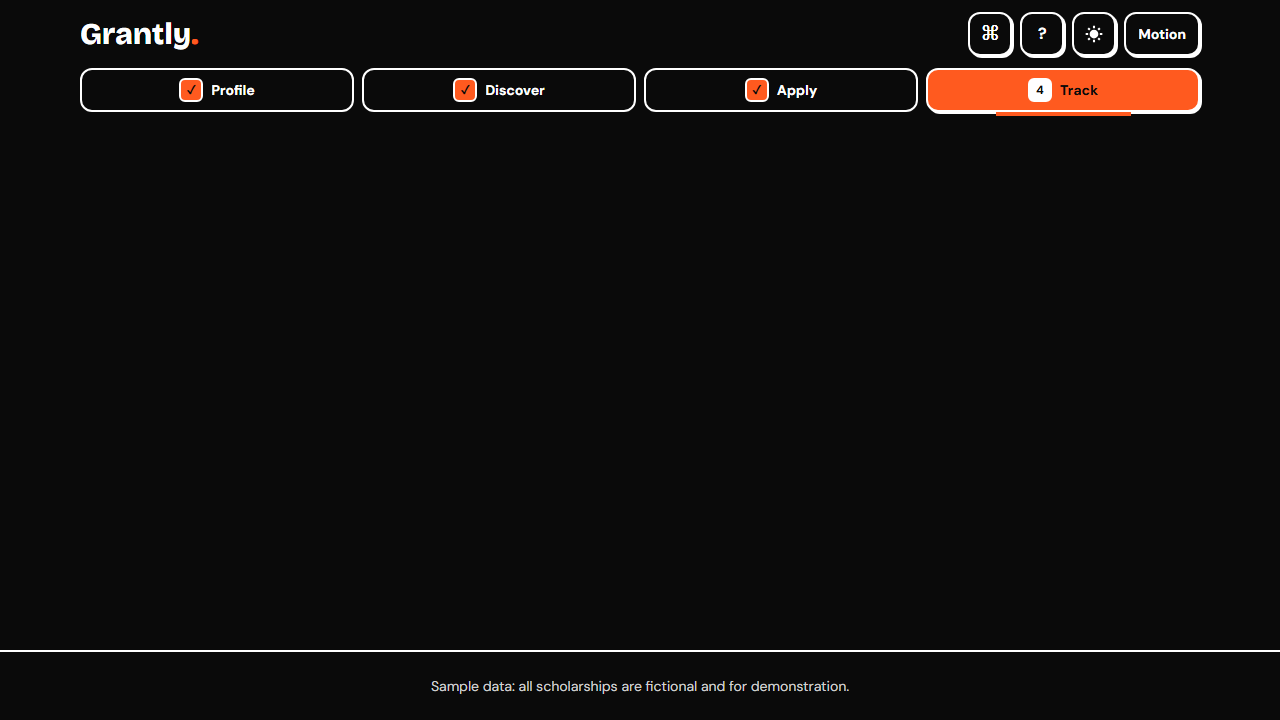
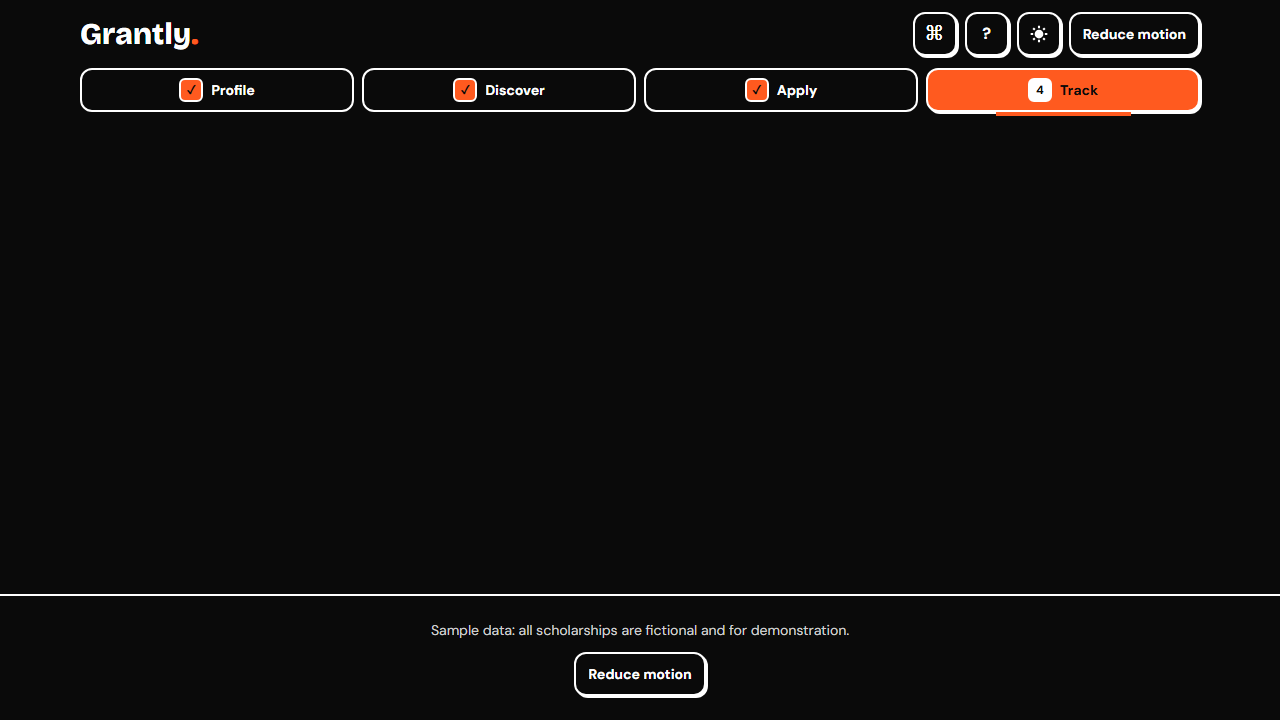
fixed hover

Changed region(s): [[0.3438, 0.8556, 0.6562, 0.9778], [0.7188, 0.0, 0.9062, 0.0917]]

diff --git a/src/pages/Discover.tsx b/src/pages/Discover.tsx
@@ -7,12 +7,10 @@ import {
   useTransition,
   type ReactNode,
 } from 'react'
-import { AnimatePresence, motion } from 'framer-motion'
 import { DATA, type Sch } from '../data'
 import { daysLeft } from '../match'
 import { useApp } from '../store'
 import { CT, FD, LV } from '../lib/options'
-import { useMotion } from '../lib/motion'
 import { CompareBar } from '../components/CompareBar'
 import { QuickView } from '../components/QuickView'
 import { ScholarshipCard } from '../components/ScholarshipCard'
@@ -22,7 +20,7 @@ import { Card } from '../components/ui/Card'
 import { controlClass } from '../components/ui/Field'
 import { useMatches } from '../lib/matches'
 
-// First-visit-only effects: skeletons and the staggered entrance run once per page load.
+// First-visit-only loading keeps the initial page from flashing incomplete data.
 let introDone = false
 
 function Pick({
@@ -58,7 +56,6 @@ function Pick({
 export default function Discover() {
   const profile = useApp((s) => s.profile)
   const matches = useMatches()
-  const { reduce } = useMotion()
   const [q, setQ] = useState('')
   const [lvl, setLvl] = useState('')
   const [fld, setFld] = useState('')
@@ -68,7 +65,6 @@ export default function Discover() {
   const [sort, setSort] = useState('match')
   const [isPending, startTransition] = useTransition()
   const [loading, setLoading] = useState(!introDone)
-  const [entering, setEntering] = useState(false)
   const [quick, setQuick] = useState<Sch | null>(null)
   const trigger = useRef<HTMLElement | null>(null)
   const deferredQuery = useDeferredValue(q)
@@ -78,13 +74,9 @@ export default function Discover() {
     const t = window.setTimeout(() => {
       introDone = true
       setLoading(false)
-      if (!reduce) {
-        setEntering(true)
-        window.setTimeout(() => setEntering(false), 800)
-      }
     }, 400)
     return () => window.clearTimeout(t)
-  }, [reduce])
+  }, [])
 
   const rows = useMemo(() => {
     const w = Number(win)
@@ -248,7 +240,7 @@ export default function Discover() {
 
       <section
         aria-labelledby="results"
-        className="mt-8 pb-28"
+        className="mt-8 scroll-mt-[22rem] pb-28 pt-2"
         aria-busy={isPending}
       >
         <h2 id="results" className="mb-4 text-2xl font-extrabold">
@@ -264,20 +256,9 @@ export default function Discover() {
             ))}
           </div>
         ) : rows.length ? (
-          <AnimatePresence mode="popLayout">
-            <ul className="grid gap-5 md:grid-cols-2">
-              {rows.map(({ s, m }, i) => (
-                <motion.li
-                  key={s.id}
-                  initial={entering ? { opacity: 0, y: 12 } : false}
-                  animate={{ opacity: 1, y: 0 }}
-                  layout
-                  transition={{
-                    duration: 0.2,
-                    ease: 'easeOut',
-                    delay: entering ? Math.min(i, 8) * 0.05 : 0,
-                  }}
-                >
+          <ul className="grid gap-5 md:grid-cols-2">
+            {rows.map(({ s, m }) => (
+              <li key={s.id}>
                   <ScholarshipCard
                     s={s}
                     score={m.score}
@@ -287,10 +268,9 @@ export default function Discover() {
                       setQuick(sch)
                     }}
                   />
-                </motion.li>
-              ))}
-            </ul>
-          </AnimatePresence>
+              </li>
+            ))}
+          </ul>
         ) : (
           <Card className="text-center">
             <p className="text-lg font-extrabold">

diff --git a/e2e/hover-visibility.spec.ts b/e2e/hover-visibility.spec.ts
@@ -76,6 +76,70 @@ async function assertDiscoverHoverContrast(page: Page) {
   }
 }
 
+async function assertDiscoverCardsSurviveScroll(page: Page) {
+  const filter = page.getByRole('region', { name: 'Search and filters' })
+  const cards = page.locator('[data-testid="scholarship-card"]')
+  const maxScroll = await page.evaluate(
+    () => document.documentElement.scrollHeight - window.innerHeight,
+  )
+  const positions = [
+    ...Array.from(
+      { length: Math.floor(maxScroll / 320) + 1 },
+      (_, index) => index * 320,
+    ),
+    maxScroll,
+  ]
+
+  for (const position of [...new Set(positions)]) {
+    await page.evaluate((scrollTop) => window.scrollTo(0, scrollTop), position)
+    await page.waitForTimeout(50)
+    await filter.waitFor()
+    const filterBox = await filter.boundingBox()
+    expect(filterBox).not.toBeNull()
+    const states = await cards.evaluateAll((elements) => {
+      const viewportHeight = window.innerHeight
+      return elements.map((element) => {
+        const title = element.querySelector<HTMLElement>(
+          '[data-testid="scholarship-title"]',
+        )
+        const cardBox = element.getBoundingClientRect()
+        const titleBox = title?.getBoundingClientRect()
+        const titleStyle = title ? getComputedStyle(title) : null
+        return {
+          opacity: getComputedStyle(element).opacity,
+          cardBox: { top: cardBox.top, bottom: cardBox.bottom },
+          titleBox: titleBox
+            ? {
+                top: titleBox.top,
+                bottom: titleBox.bottom,
+                height: titleBox.height,
+              }
+            : null,
+          titleVisible:
+            titleStyle?.display !== 'none' &&
+            titleStyle?.visibility !== 'hidden' &&
+            titleStyle?.opacity !== '0',
+          inViewport: cardBox.bottom > 0 && cardBox.top < viewportHeight,
+        }
+      })
+    })
+    for (const state of states) {
+      expect(state.opacity).toBe('1')
+      expect(state.titleVisible).toBe(true)
+      expect(state.titleBox?.height).toBeGreaterThan(0)
+      if (
+        state.inViewport &&
+        state.titleBox &&
+        filterBox &&
+        state.titleBox.top < filterBox.bottom &&
+        state.titleBox.bottom > filterBox.top
+      ) {
+        expect(state.titleBox.top).toBeGreaterThanOrEqual(filterBox.bottom)
+      }
+    }
+  }
+}
+
 for (const theme of ['light', 'dark']) {
   test.describe(`${theme} hover visibility`, () => {
     test.beforeEach(async ({ page }) => {
@@ -94,6 +158,23 @@ for (const theme of ['light', 'dark']) {
           path: `docs/qa/hover/${theme}-${route.slice(1) || 'home'}.png`,
           fullPage: true,
         })
+      })
+    }
+
+    for (const reducedMotion of [false, true]) {
+      test(`keeps every card visible while scrolling with reduced motion ${reducedMotion ? 'on' : 'off'}`, async ({
+        page,
+      }) => {
+        await page.goto('/discover')
+        if (theme === 'dark')
+          await page.getByRole('button', { name: 'Dark mode' }).click()
+        if (reducedMotion)
+          await page
+            .getByRole('banner')
+            .getByRole('button', { name: 'Reduce motion' })
+            .click()
+        await page.locator('[data-testid="scholarship-card"]').first().waitFor()
+        await assertDiscoverCardsSurviveScroll(page)
       })
     }
   })

diff --git a/HOVER_BUG.md b/HOVER_BUG.md
@@ -1,5 +1,39 @@
 # Pass 9 hover bug investigation
 
+## Scroll-hide root cause
+
+The requested search was run with:
+
+```text
+grep -rn "whileInView\|useInView\|IntersectionObserver\|content-visibility\|viewport=\|initial={{" src
+```
+
+No `whileInView`, `useInView`, `IntersectionObserver`, `content-visibility`,
+or windowing/virtualisation exists in the Discover card path. The scroll-hide
+cause was the framer-motion entrance in `src/pages/Discover.tsx:272-278`:
+
+```tsx
+initial={entering ? { opacity: 0, y: 12 } : false}
+animate={{ opacity: 1, y: 0 }}
+```
+
+The page timer at `src/pages/Discover.tsx:75-85` set `entering` only during the
+first 800ms after loading. Filtering, sorting, or search changes could remount
+list items while that transition state was active, leaving cards dependent on
+an animation completing before they became visible. The same wrapper was a
+`motion.li` around each `ScholarshipCard`, not the card itself.
+
+The sticky filter at `src/pages/Discover.tsx:145-148` is `sticky top-2 z-20`
+with an opaque `bg-surface` inherited from `Card`. It was not a windowing
+mechanism, but it can cover a card while scrolling beneath it. The results
+section now has `scroll-mt-[22rem]` and `pt-2`, and the test checks that any
+card intersecting the sticky region has its title below the filter.
+
+The fix removes the scroll-dependent `motion.li` entrance and renders plain
+list items. Cards are therefore rendered at `opacity: 1` immediately and
+remain visible through scroll, filter, sort, search, light/dark theme, and
+reduced-motion changes.
+
 ## Copilot root cause
 
 The requested searches were run against `src`:
